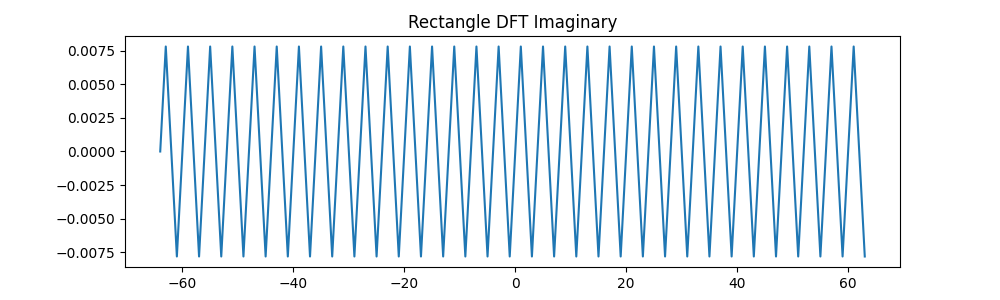
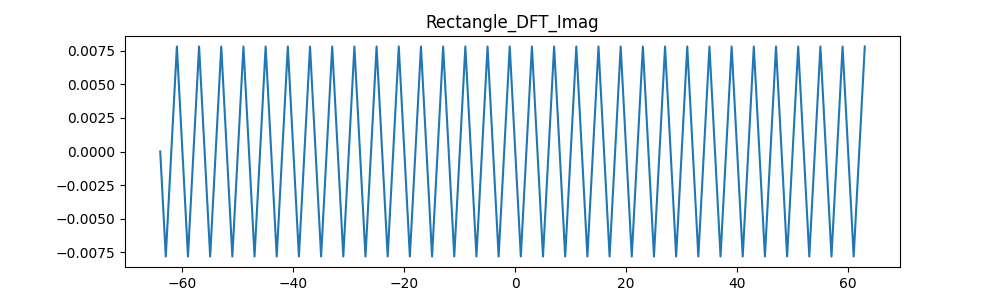
Done with part 1.c. Looks good.

Changed region(s): [[0.155, 0.15, 0.868, 0.87], [0.403, 0.03, 0.62, 0.12]]

diff --git a/experiment_1.py b/experiment_1.py
@@ -69,56 +69,37 @@ create_figure('Cosine_DFT_Mag', cos_dft_freq, cos_mag, outfile_path, False)
 #plot phase
 create_figure('Cosine_DFT_Phase', cos_dft_freq, cos_phase, outfile_path, False)
 
-# #Part 1.c
-# with open("Rect_128.txt") as file:
-#     rect_values = file.readlines()
-#     rect_values = [float(value.strip()) for value in rect_values]
-#     rect_values = [(-1**value)*value for value in rect_values]#center fourier transform
 
-# #calculate x-values
-# #rectangle centered on x = 0
-# rect_x_values = list(range(-len(rect_values)//2, len(rect_values)//2))
 
-# #plot rectangle
-# plt.figure(figsize=(10, 3))
-# plt.plot(rect_x_values, rect_values, 'o')
-# plt.title("Rectangle")
-# plt.savefig(f"{outfile_path}\Rectangle.png")
+#Part 1.c
+with open("Rect_128.txt") as file:
+    rect_values = file.readlines()
+    rect_values = [float(value.strip()) for value in rect_values]
+    rect_values = np.array(rect_values)
 
-# #compute dft of rectangle
-# rect_dft = np.fft.fft(rect_values, norm='forward')
+#calculate x-values
+#rectangle centered on x = 0
+rect_x_values = np.array(list(range(-len(rect_values)//2, len(rect_values)//2)))
 
-# #plot rect dft real
-# plt.figure(figsize=(10, 3))
-# plt.plot(rect_x_values, rect_dft.real)
-# plt.title("Rectangle DFT Real")
-# plt.savefig(f"{outfile_path}\Rectangle_DFT_Real.png")
+#plot rectangle
+create_figure('Rectangle', rect_x_values, rect_values, outfile_path, False)
 
-# #plot rect dft imag
-# plt.figure(figsize=(10, 3))
-# plt.plot(rect_x_values, rect_dft.imag)
-# plt.title("Rectangle DFT Imaginary")
-# plt.savefig(f"{outfile_path}\Rectangle_DFT_Imag.png")
+#compute dft of rectangle
+rect_values = center_spectrum(rect_values)
+rect_dft = np.fft.fft(rect_values, norm='forward')
 
-# #calculate magnitude and phase of rectangle dft
-# rect_mag = []
-# rect_phase = []
+#calculate magnitude and phase of rectangle dft
+rect_mag = magnitude(rect_dft)
+rect_phase = phase(rect_dft)
 
-# for real, imag in zip(rect_dft.real, rect_dft.imag):
-#     mag = math.sqrt(real**2+imag**2)
-#     phase = math.atan(imag/real)
+#plot rect dft real
+create_figure('Rectangle_DFT_Real', rect_x_values, rect_dft.real, outfile_path, False)
 
-#     rect_mag.append(mag)
-#     rect_phase.append(phase)
+#plot rect dft imag
+create_figure('Rectangle_DFT_Imag', rect_x_values, rect_dft.imag, outfile_path, False)
 
-# #plot mag
-# plt.figure(figsize=(10, 3))
-# plt.plot(rect_x_values, rect_mag)
-# plt.title("Magnitude of Rectangle DFT")
-# plt.savefig(f"{outfile_path}\Rectangle_DFT_Mag.png")
+#plot mag
+create_figure('Rectangle_DFT_Mag', rect_x_values, rect_mag, outfile_path, False)
 
-# #plot phase
-# plt.figure(figsize=(10, 3))
-# plt.plot(rect_x_values, rect_phase)
-# plt.title("Phase of Rectangle DFT")
-# plt.savefig(f"{outfile_path}\Rectangle_DFT_Phase.png")
+#plot phase
+create_figure('Rectangle_DFT_Phase', rect_x_values, rect_phase, outfile_path, False)
